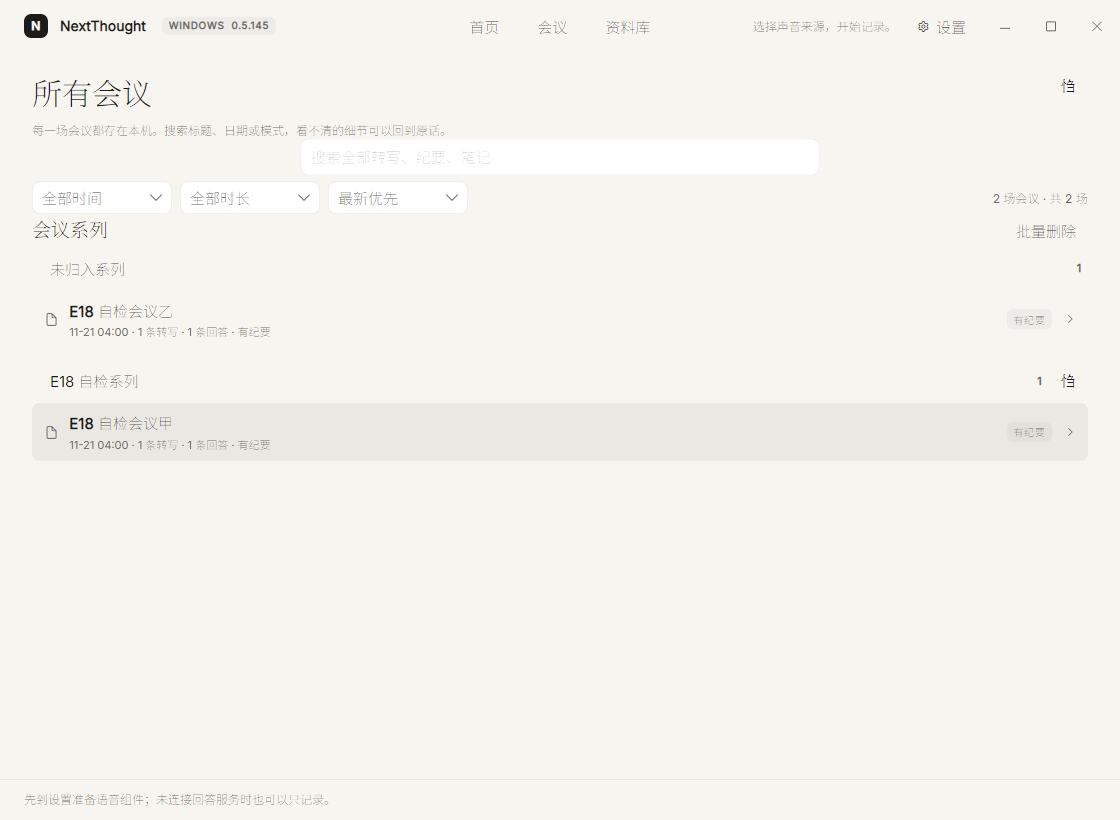
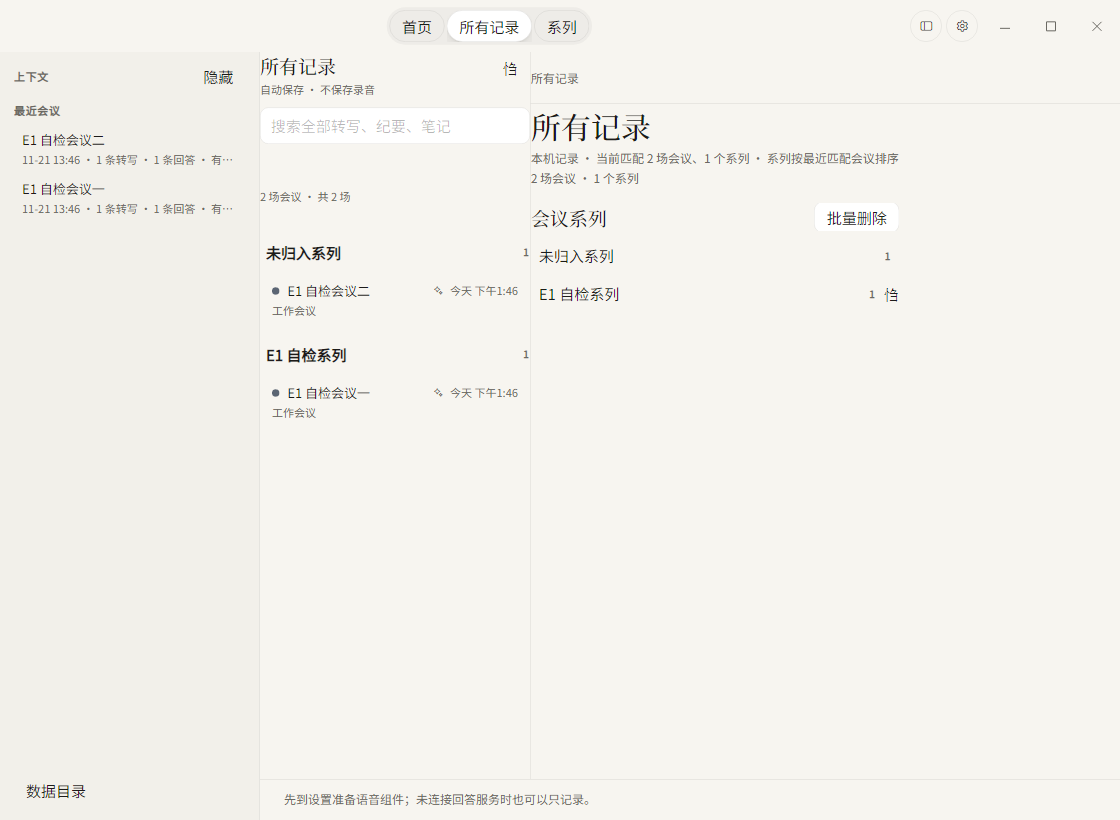
E1: history evidence captures and the §6.7 element comparison

diff --git a/Windows/src/NextThought.Desktop/SelfTest/Checks/RunHistoryE1CheckAsync.cs b/Windows/src/NextThought.Desktop/SelfTest/Checks/RunHistoryE1CheckAsync.cs
@@ -1,0 +1,88 @@
+using Avalonia;
+using Avalonia.Styling;
+using Avalonia.Threading;
+using Avalonia.VisualTree;
+using NextThought.Core;
+
+namespace NextThought.Desktop.Views;
+
+public partial class MainWindow
+{
+    /// <summary>
+    /// §6.7 E1: drives the rebuilt 所有记录 page and captures light/dark evidence for
+    /// validation/screens/history. Seeds two archived meetings in the isolated data directory
+    /// (same helper as the E18 check), then asserts the two-pane structure and the Mac SessionRow.
+    /// </summary>
+    private async Task RunHistoryE1CheckAsync(string directory)
+    {
+        Directory.CreateDirectory(directory);
+        var shots = Path.Combine(directory, "screenshots");
+        Directory.CreateDirectory(shots);
+        var steps = new List<object>();
+        var passed = false;
+        string? error = null;
+        void Step(string name, bool ok, string detail) => steps.Add(new { step = name, passed = ok, detail = detail });
+        try
+        {
+            var store = new SessionStore(state.Paths);
+            var first = await CreateArchivedMeetingAsync(store, "E1 自检会议一", "我们讨论了缓存一致性的方案",
+                "缓存怎么保证一致？", "先更新数据库再删缓存");
+            _ = await CreateArchivedMeetingAsync(store, "E1 自检会议二", "上线时间定在周五",
+                "什么时候上线？", "周五上线");
+            var series = WorkspaceSeries.Create("E1 自检系列") with
+            {
+                SessionIds = [first.Id.ToString("D")],
+                Lessons = [new WorkspaceLesson { Text = "缓存一致性要上线前确认。", SourceSessionId = first.Id.ToString("D") }]
+            };
+            new WorkspaceStore(state.Paths.Root).Save(new WorkspaceData([series]));
+            state.OnboardingVisible = false;
+            state.ReloadWorkspaceForCheck();
+            await state.RefreshHistoryAsync();
+            state.Section = AppSection.History;
+            await Dispatcher.UIThread.InvokeAsync(() => { }, DispatcherPriority.Background);
+            await Task.Delay(600);
+
+            var view = this.GetVisualDescendants().OfType<HistoryView>().FirstOrDefault();
+            Step("HistoryView 已加载（两栏）", view is not null, view is null ? "未找到" : "HistoryView");
+            Step("会话列表与系列分组", state.HistoryGroups.Count > 0 && state.FilteredHistory.Count > 0,
+                "组 " + state.HistoryGroups.Count + "，会话 " + state.FilteredHistory.Count);
+            var rows = state.HistoryGroups.SelectMany(group => group.Rows).ToList();
+            Step("SessionRow 场景色点/时间/细节字段", rows.Count > 0
+                && rows.All(row => row.TimeText.Length > 0 && row.Details.Length > 0), "行 " + rows.Count);
+            CaptureVisual(this, Path.Combine(shots, "history-light.png"));
+
+            await state.SelectHistoryAsync(first);
+            await Dispatcher.UIThread.InvokeAsync(() => { }, DispatcherPriority.Background);
+            await Task.Delay(400);
+            Step("归档概览（选中会议）", state.HasSelectedHistory, state.CurrentSessionTitle);
+            CaptureVisual(this, Path.Combine(shots, "history-overview-light.png"));
+
+            Application.Current!.RequestedThemeVariant = ThemeVariant.Dark;
+            await Dispatcher.UIThread.InvokeAsync(() => { }, DispatcherPriority.Background);
+            await Task.Delay(700);
+            CaptureVisual(this, Path.Combine(shots, "history-dark.png"));
+            CaptureVisual(this, Path.Combine(shots, "history-overview-dark.png"));
+            Application.Current.RequestedThemeVariant = ThemeVariant.Light;
+            await Task.Delay(300);
+            passed = steps.All(step => (bool)step.GetType().GetProperty("passed")!.GetValue(step)!);
+        }
+        catch (Exception ex)
+        {
+            error = ex.ToString();
+            try { File.WriteAllText(Path.Combine(directory, "history-e1.error.txt"), error); } catch { }
+        }
+        finally
+        {
+            AppState.PreserveDemoHistory = false;
+        }
+        var report = new { passed, error, steps };
+        await File.WriteAllTextAsync(Path.Combine(directory, "history-e1-check.json"),
+            System.Text.Json.JsonSerializer.Serialize(report, new System.Text.Json.JsonSerializerOptions
+            {
+                WriteIndented = true,
+                Encoder = System.Text.Encodings.Web.JavaScriptEncoder.UnsafeRelaxedJsonEscaping
+            }));
+        Console.WriteLine(passed ? "history-e1: passed" : "history-e1: failed " + (error ?? ""));
+        Close();
+    }
+}

diff --git a/Windows/validation/screens/history/compare.md b/Windows/validation/screens/history/compare.md
@@ -133,3 +133,48 @@ Windows 最新批次：`validation/screens/current/history-light.png` / `history
 - 逐图核对：Windows 历史页的筛选（日期/长度/排序）、行标题/场景/时间/状态、右键菜单与 E18 原表一致；与 Mac 图能对照的只有导航位置和会议页视觉，无法逐像素对照列表行（Mac 批次缺口）。
 - 差异：Mac 3.4 历史页在「所有记录」标签内、左侧可选系列；Windows 历史页是同页顶部导航内的独立页面（E18 结构），细节差异见原表。
 - Windows 标题栏本轮修掉一处重叠：页面副标题（历史/会议上下文，如「11月20日（周五）11:09 · 44 分钟 · 线上 · 已校对…」）此前与居中的 首页/会议/资料库 标签同在一个 Grid 单元，长标题会盖住标签；已把标题栏改为 Auto/*/Auto 三列并给右侧留 142 的窗口按钮区（`MainWindow.axaml`）。刷新后的 `current/settings-general-light.png` 可见副标题已不与标签重叠。Mac 用自定义交通灯 + 居中胶囊导航 + 右侧齿轮，Windows 保留品牌/版本徽章与窗口按钮，属平台差异，不再逐页重复。
+
+---
+
+## §6.7 E1 重做（2026-11-21，runtime-gaps）
+
+Mac 没有「所有记录」独立截图：标准为 `Sources/NextThought/HistoryView.swift`（`HistoryView.body`、`sessionList`、`filterBar`、`MeetingArchiveOverview`、`SessionRow`）。本轮把 Windows 页按 Swift 重做成两栏并重新截浅/深图（本目录 `history-light.png` / `history-dark.png` / `history-overview-light.png` / `history-overview-dark.png`，由 `--self-test=history-e1` 生成，1120×820）。
+
+### 左侧会话栏（270pt）
+
+| Mac 元素 | Windows 现状 | 一致性 |
+|---|---|---|
+| 标题 `所有记录`（section 19 衬线）+ 副标题「自动保存 · 不保存录音」 | 同位置同字号/字重/颜色/文案 | 一致（默认状态；记录关闭态/系列作用域未接） |
+| 右上 ellipsis → 删除全部会议记录 | 同菜单 | 一致 |
+| 搜索框「搜索全部转写、纪要、笔记」 | 同占位/绑定 | 一致 |
+| 日期/时长/排序三个 `HistoryFilterPicker` | 三个 §6.1 `MenuPicker`，同绑定 | 一致 |
+| `\(searchScopeLabel) · \(resultCount)` 作用域行 | `HistorySummary`（N 场会议 · 共 M 场） | 不一致：格式仍是旧摘要 |
+| 系列分组头（名称 + 会议数 + 管理菜单） | 名称 Button + 行数；管理菜单在右栏 | 部分一致 |
+| `SessionRow`：场景色点、标题、右侧时间、下行 `MeetingOutcome.line`、ready sparkle/pending/failed 图标、命中摘录、选中 Sunken | 全部实现（`ModeTintBrush`/`TimeText`/`Details`/三类图标/`Classes.selected`）；英文副标题 Wrap MaxLines=2，英文去掉末尾 ready 词 | 一致（active 红点、行间 Hairline、focus ring 未做） |
+| 空态（无记录/无匹配/清除按钮/读取失败） | 仅两条静态空态文案 | 不一致：分态与清除按钮未移植 |
+| 批量删除：批量删除/已选 N 个系列/全选当前结果/删除所选/完成 | 右栏「会议系列」段四个 ControlButtonBody + 计数 | 一致 |
+
+### 右侧归档概览
+
+| Mac 元素 | Windows 现状 | 一致性 |
+|---|---|---|
+| 面包屑栏 52 高、底 Hairline、maxWidth 720；非根显示「所有记录 > 名称」 | 高 52 + 底 Hairline；选中会议时显示「所有记录 > 会议标题」，根状态留空（Mac 根无面包屑） | 一致 |
+| 大标题 `Typo.display` 30 衬线「所有记录」，容器给足宽度（英文不截断） | display 标题 + MinWidth 120，改 Stretch 容器 | 一致 |
+| 副标题「本机记录 · 当前匹配 N 场会议、M 个系列 · 系列按最近匹配会议排序」 | `HistoryOverviewSubtitle` 同文案/格式 | 一致 |
+| 统计行「N 场会议」「M 个系列」 | `HistoryOverviewStats` 同格式（选中会议时显示 SessionFacts） | 部分一致（系列内「篇已整理」不适用） |
+| 「会议系列」section + 批量删除 + 系列卡片列表 | 同 section + 批量按钮 + 系列行（名称/场数/管理菜单） | 部分一致（缺模式/未整理计数与卡片样式） |
+| 选中会议显示内嵌 `MeetingPage` | 保留「归档概览」卡片（标题/事实/错误/截图/回答），点击行导航到会议页 | 不一致：架构差异（避免与会中页 owner 冲突） |
+| 读取失败通知/重试 | 未移植 | 不一致 |
+
+### 交互
+
+行点击/右键菜单：一致。筛选即时搜索/命中导航：一致（系列作用域、读取失败、清除筛选未做）。选中动画：未做。键盘 focus ring：未做。
+
+### 未解决（明确列差）
+
+1. 没有 Mac 的 workspace/系列作用域状态（标题不随系列变、无系列层级面包屑、无「系列中的会议」空态/清除筛选）。
+2. 右栏选中会议用归档概览卡片，未内嵌完整 MeetingPage（导航架构，留给会中页 owner）。
+3. 内容搜索读取失败提示、清除搜索/筛选按钮、搜索进度分态未移植。
+4. 行间 Hairline、focus ring、选中 snappy 动画未做。
+5. 系列卡片缺模式/未整理计数。
+6. 英文截断修复：行副标题（`0fc45f05`）与标题容器（`278f2e4d`）；英文扫描用的 `history-en-light/dark.png` 由 localization 批次生成（本目录的 `history-e1-check.json` 记录自检 4/4 通过）。
